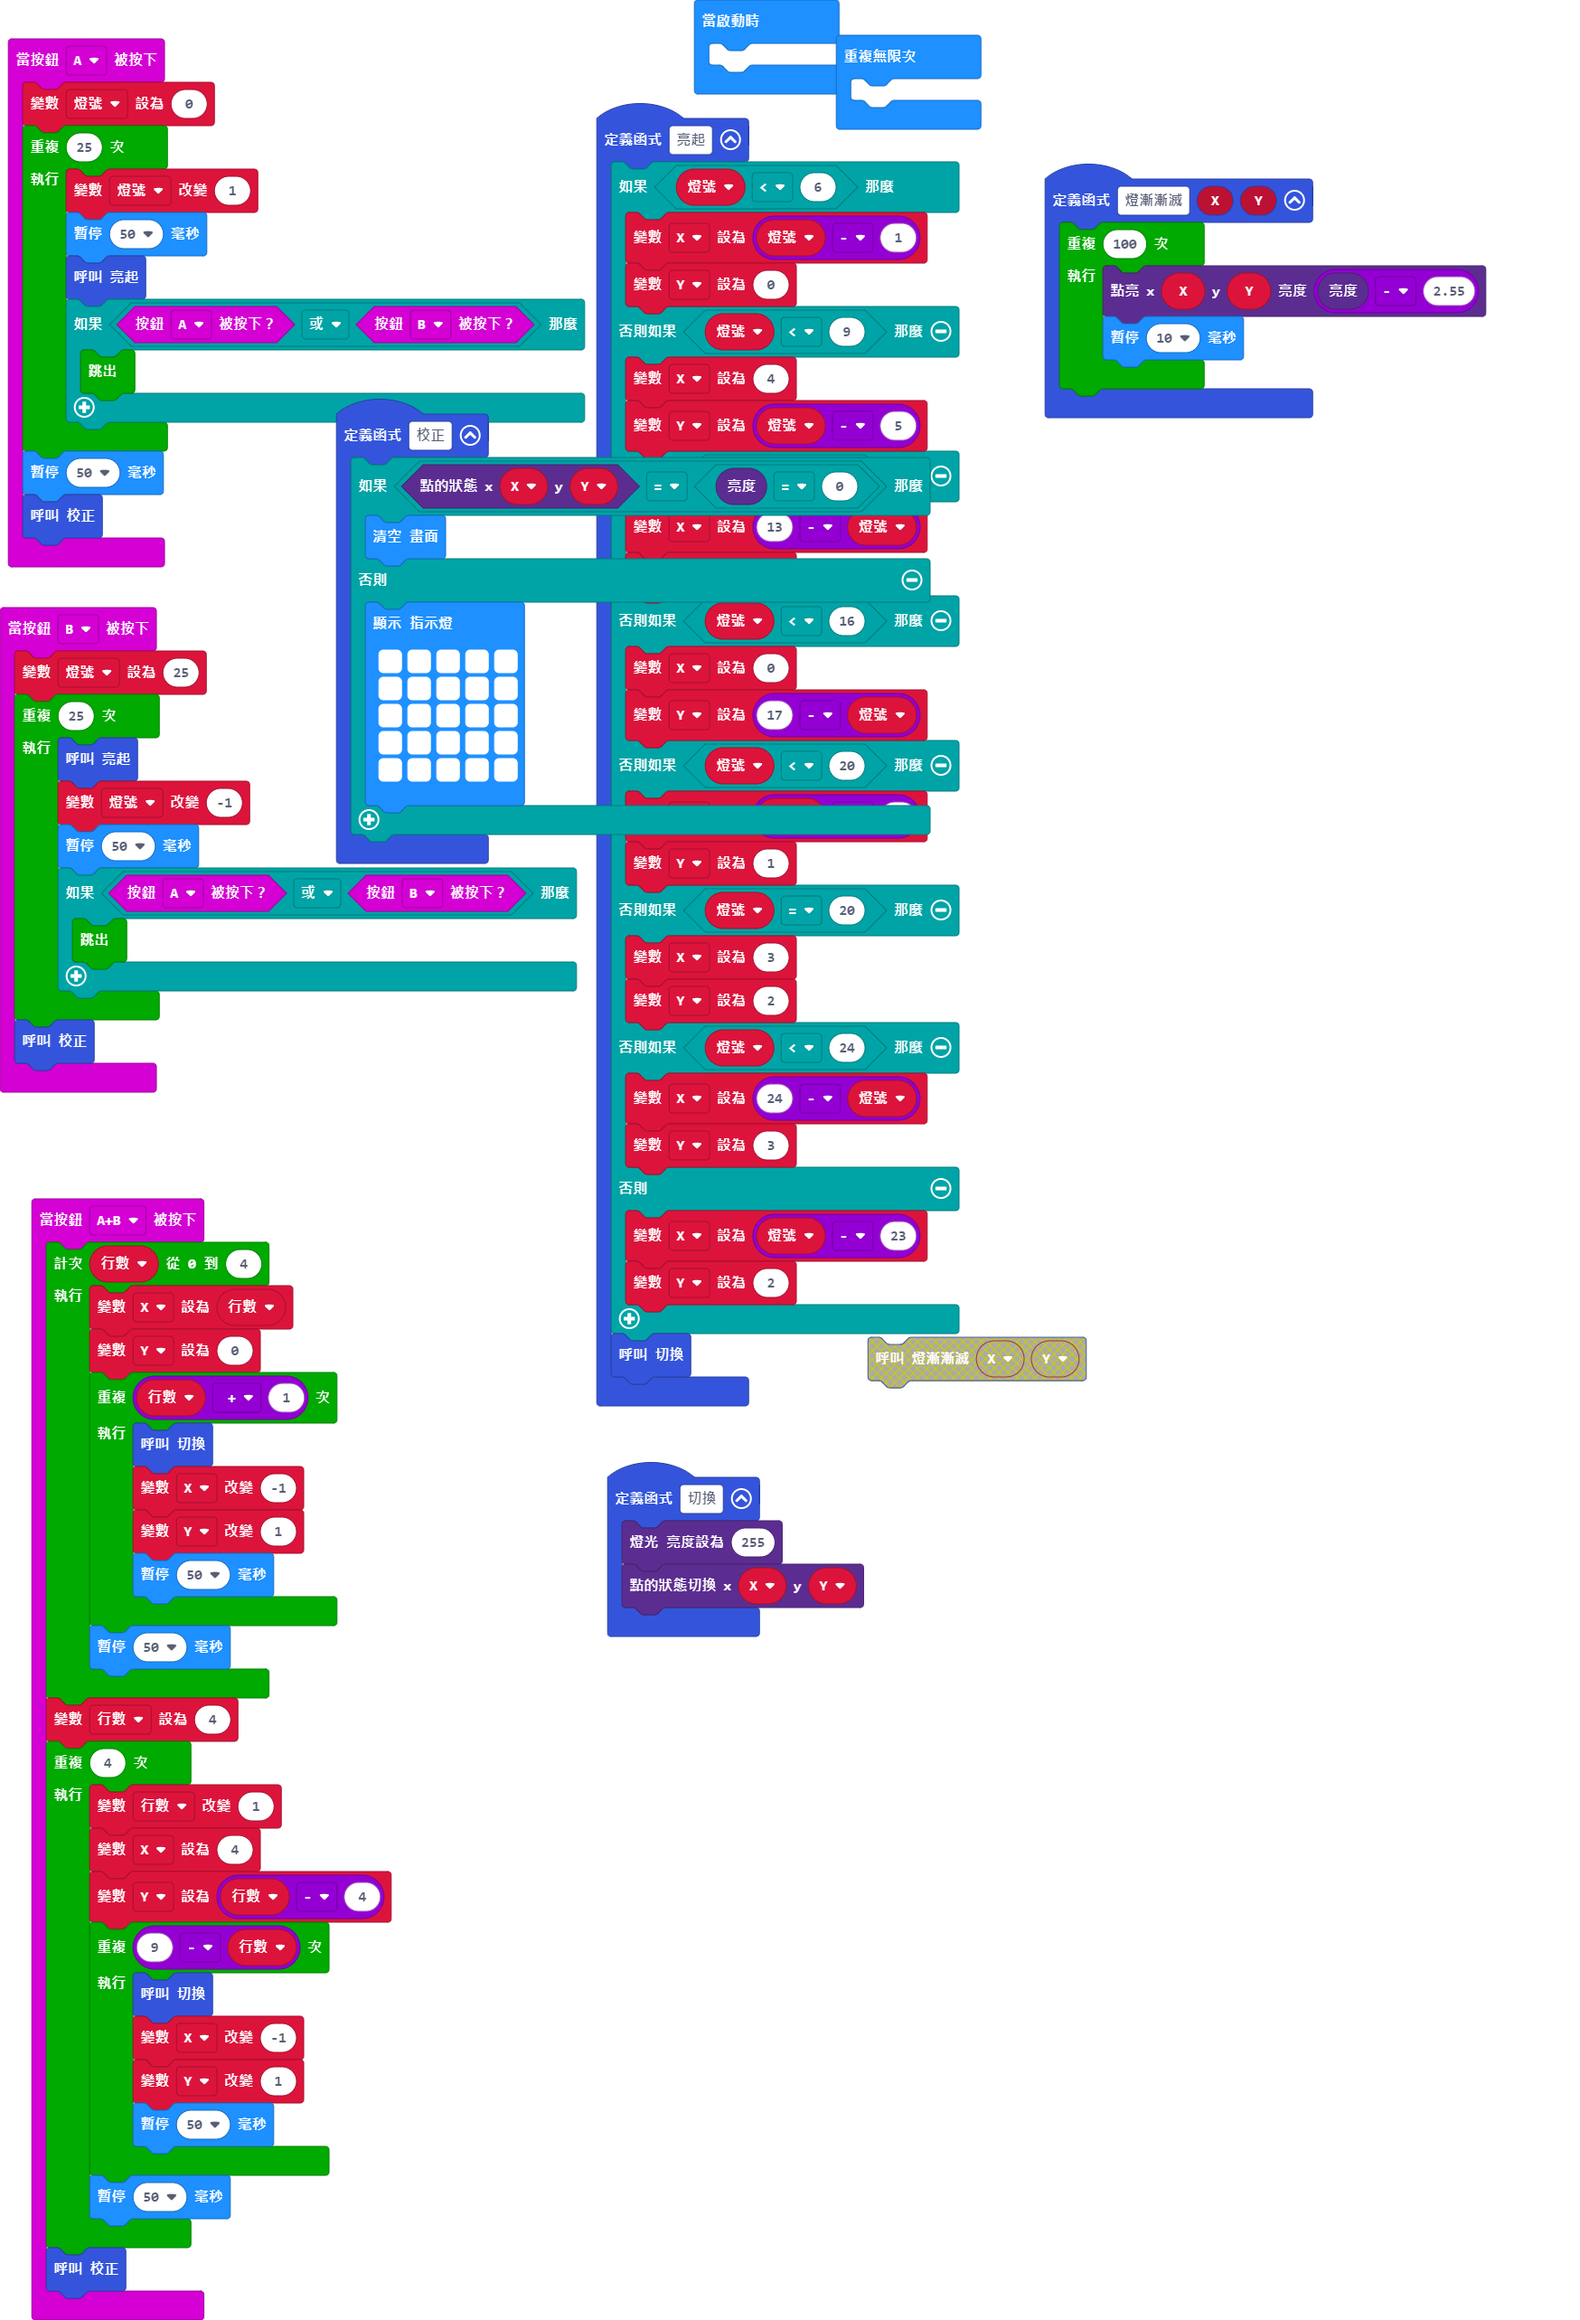
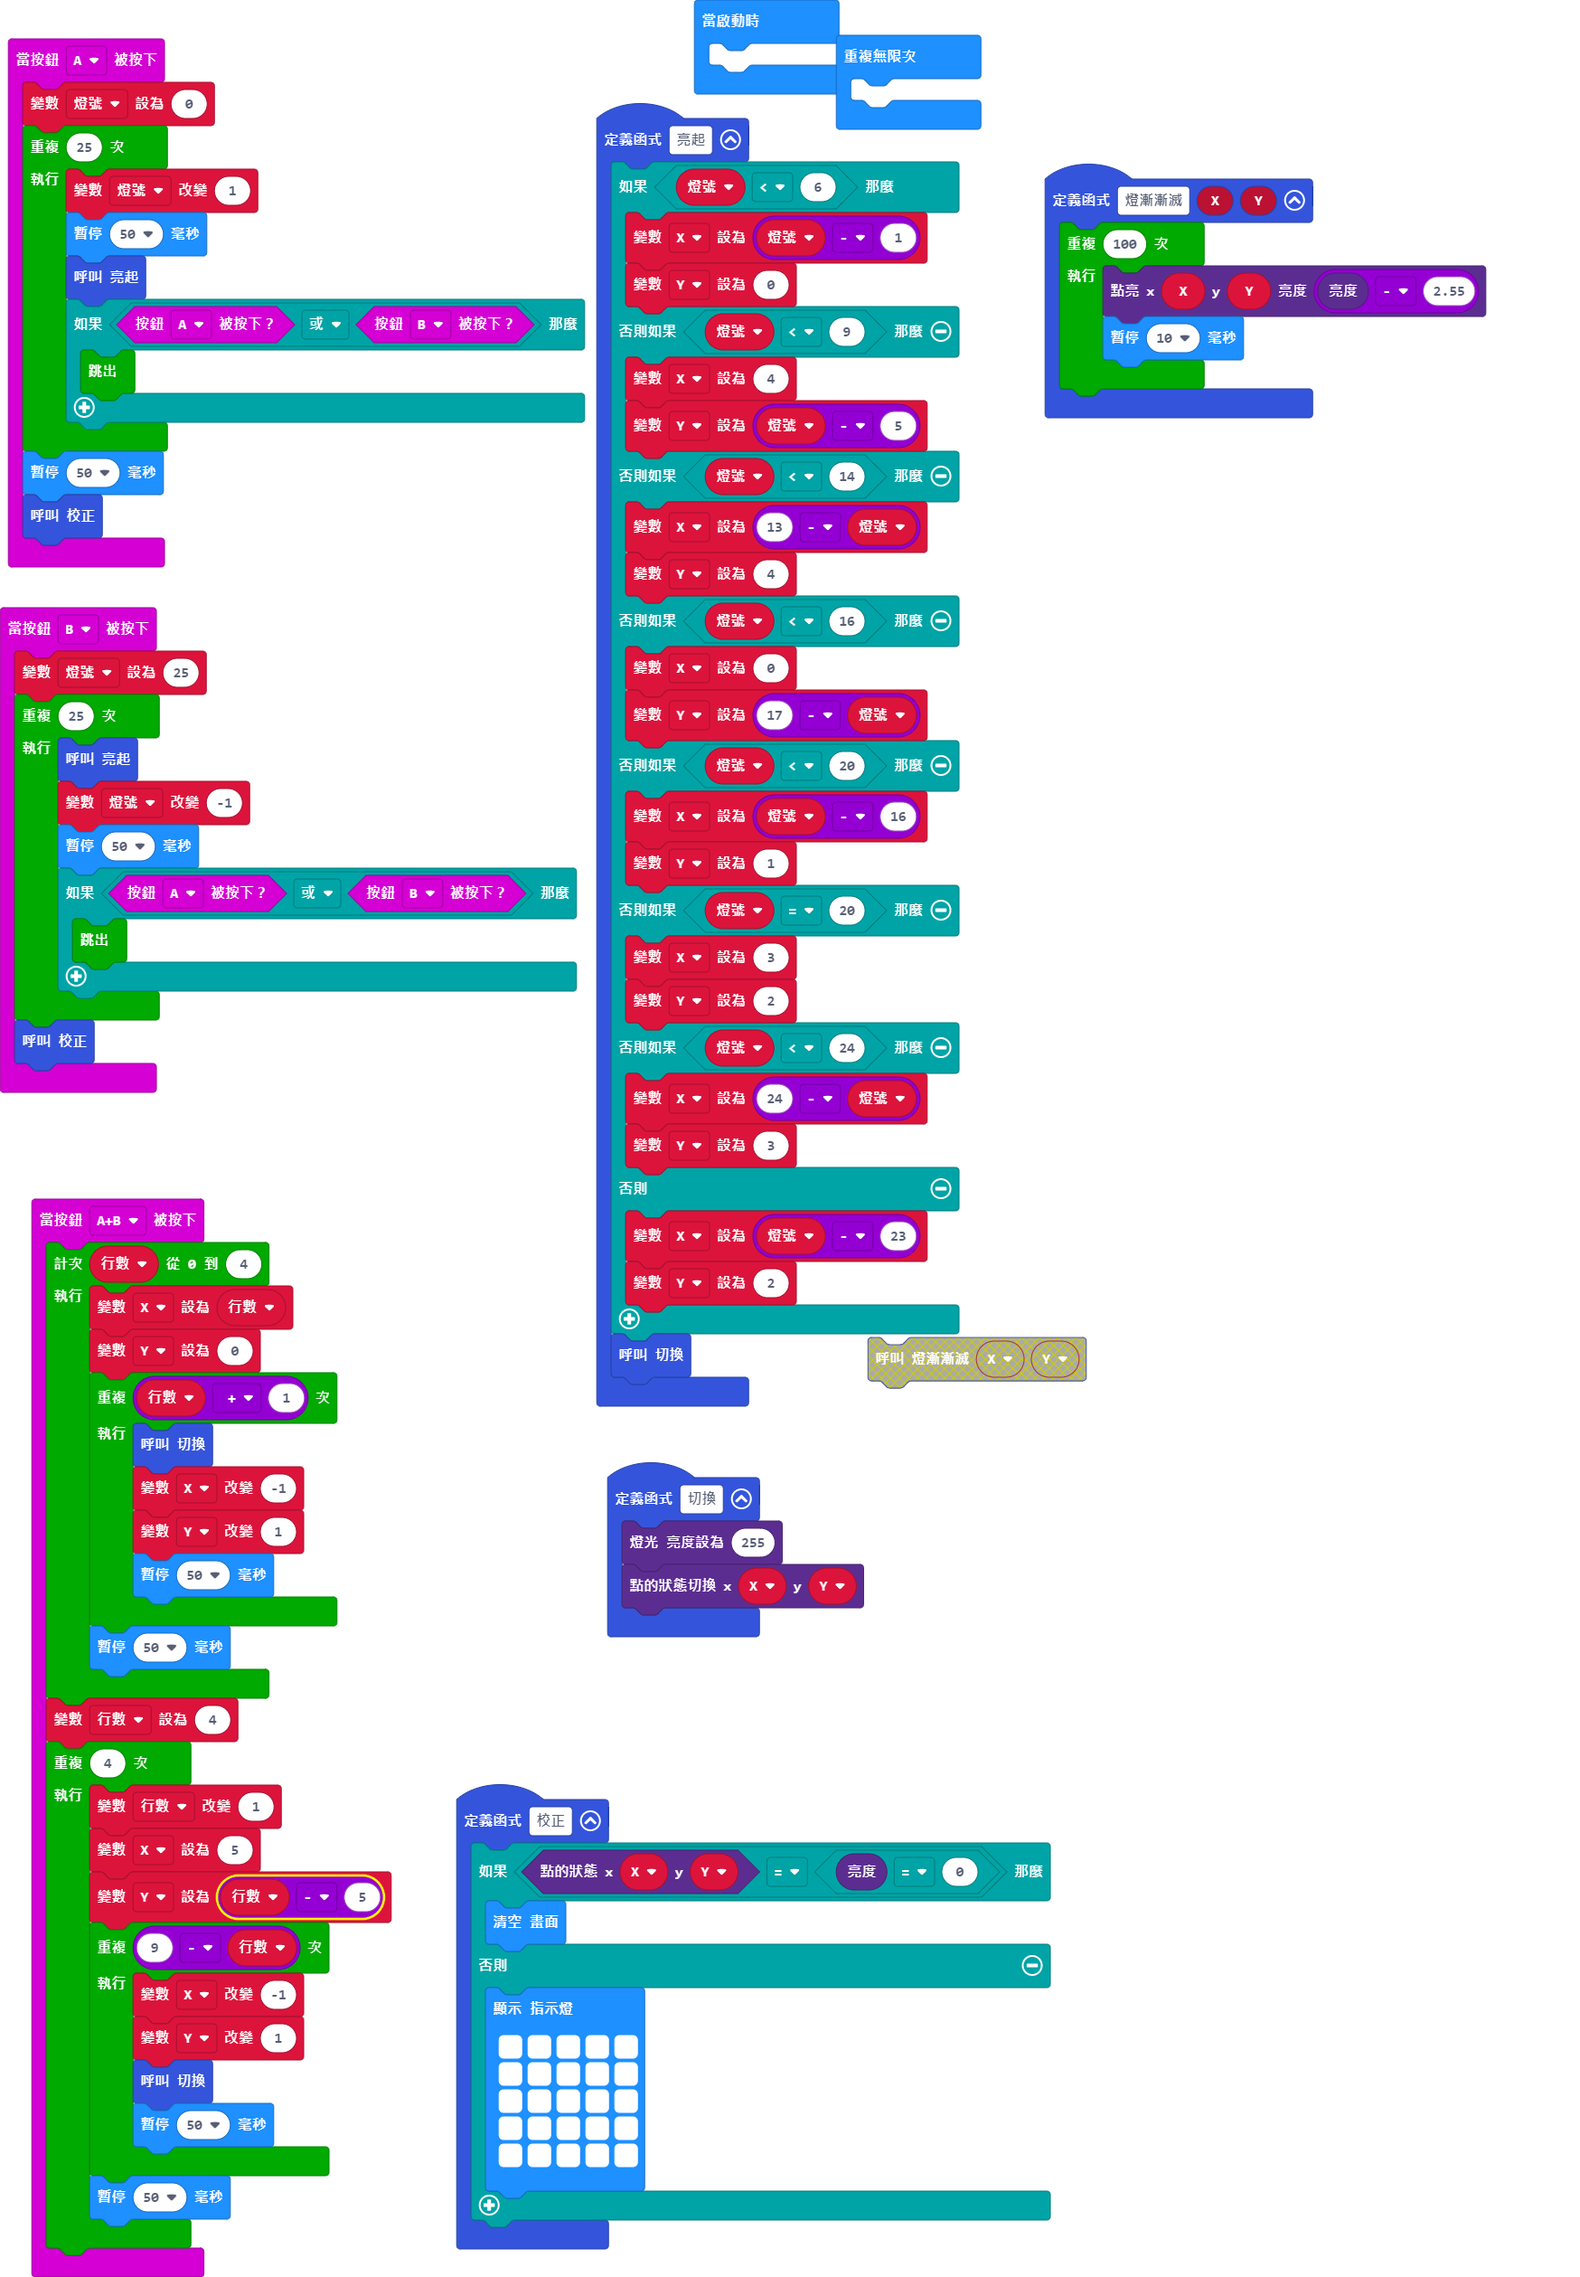
添加校正

Changed region(s): [[0.0, 0.0, 0.7105, 0.9913], [0.278, 0.7744, 0.6796, 0.9913], [0.6487, 0.062, 0.9577, 0.1859]]

diff --git a/main.ts b/main.ts
@@ -34,17 +34,16 @@ input.onButtonPressed(Button.AB, function () {
     行數 = 4
     for (let index = 0; index < 4; index++) {
         行數 += 1
-        X = 4
-        Y = 行數 - 4
+        X = 5
+        Y = 行數 - 5
         for (let index = 0; index < 9 - 行數; index++) {
-            切換()
             X += -1
             Y += 1
+            切換()
             basic.pause(50)
         }
         basic.pause(50)
     }
-    校正()
 })
 function 亮起 () {
     if (燈號 < 6) {
